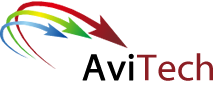
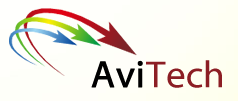
Changed background image for landing page

Changed region(s): [[0.0, 0.0, 0.6168, 0.7816], [0.3645, 0.5747, 1.0, 0.9425], [0.2523, 0.7816, 0.2804, 0.8046]]

diff --git a/js/app.js b/js/app.js
@@ -7,22 +7,22 @@ var Index = {
         SCHOOLS : [
             {
                 name: "Obafemi Awolowo University",
-                url: "../oausupport",
+                url: "oausupport",
                 logo: "img/OAU-logo.jpg"
             },
             {
                 name: "Ahmadu Bello University",
-                url: "../abusupport",
+                url: "abusupport",
                 logo: "img/abu_logo.png"
             },
             {
                 name: "AviTech",
-                url: "../avisupport",
+                url: "avisupport",
                 logo: "img/avitech.png"
             },
             {
                 name: "PowerTech",
-                url: "../powertech",
+                url: "powertech",
                 logo: "img/powertech.png"
             }
         ]

diff --git a/css/app.css b/css/app.css
@@ -1,5 +1,5 @@
 .body{
-    background: url('../img/bg-2.jpg') 50% / cover fixed;
+    background: url('../img/bg-1.jpg') 50% / cover fixed;
 }
 
 .select-school{
